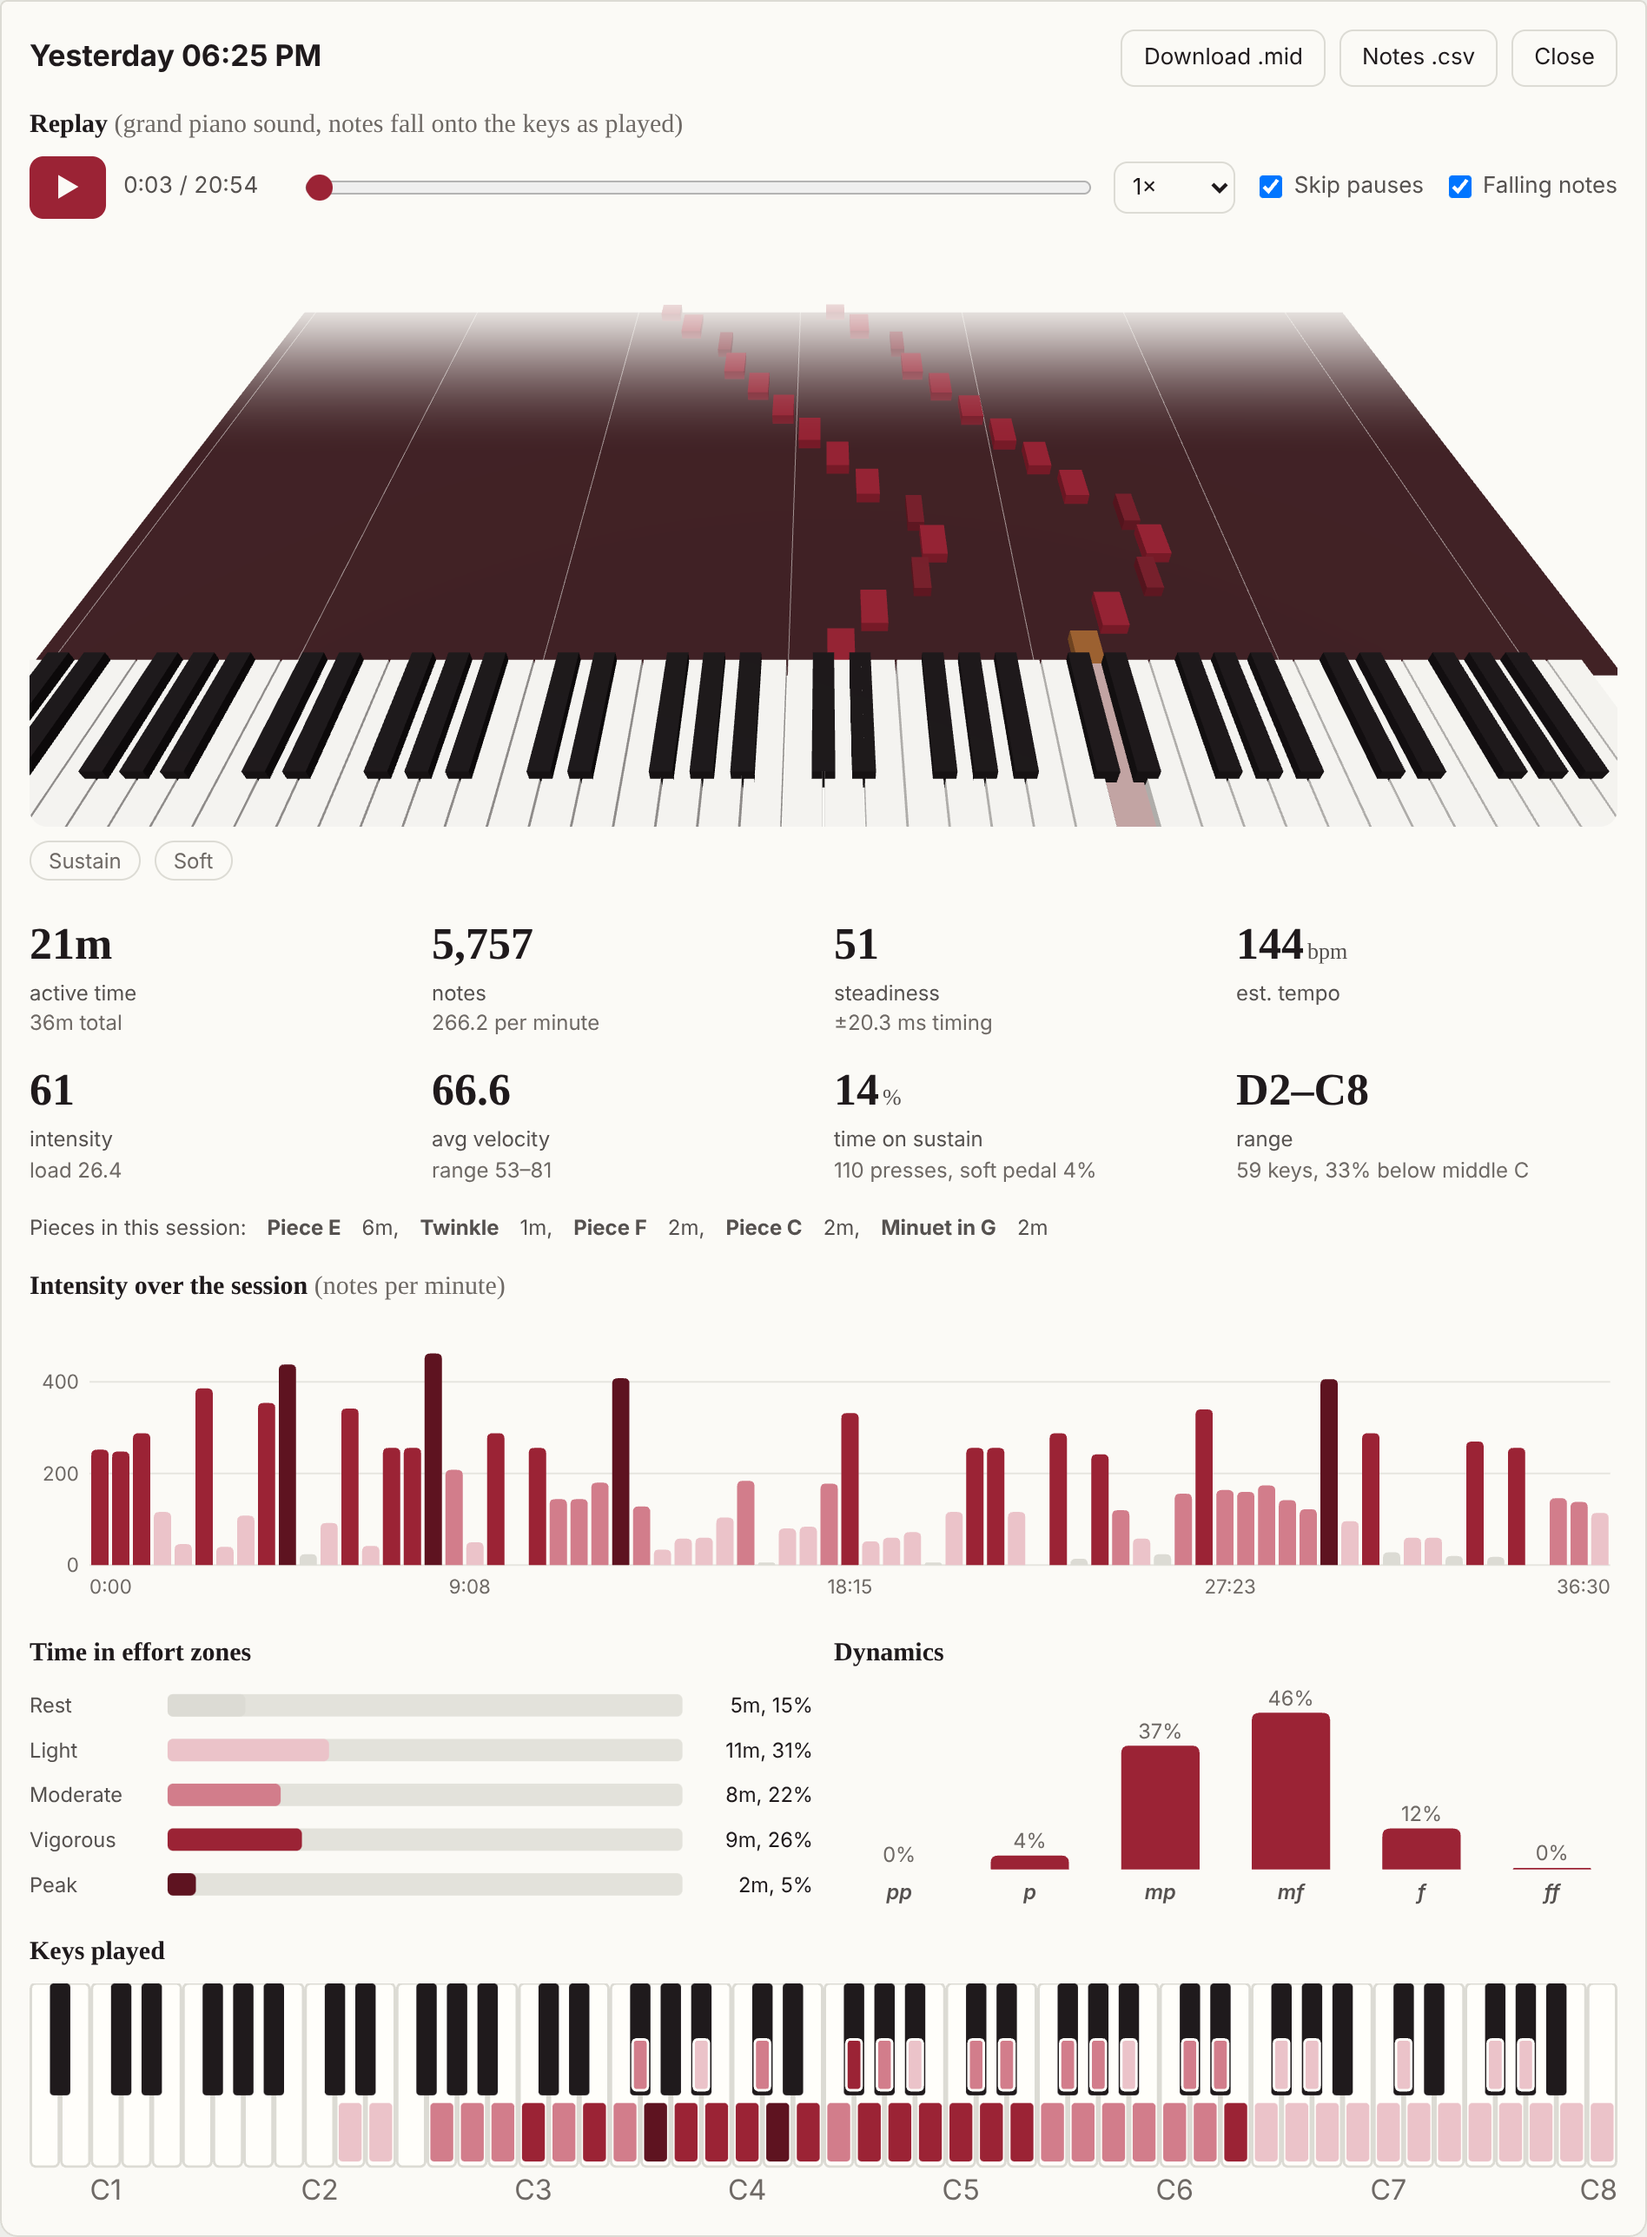
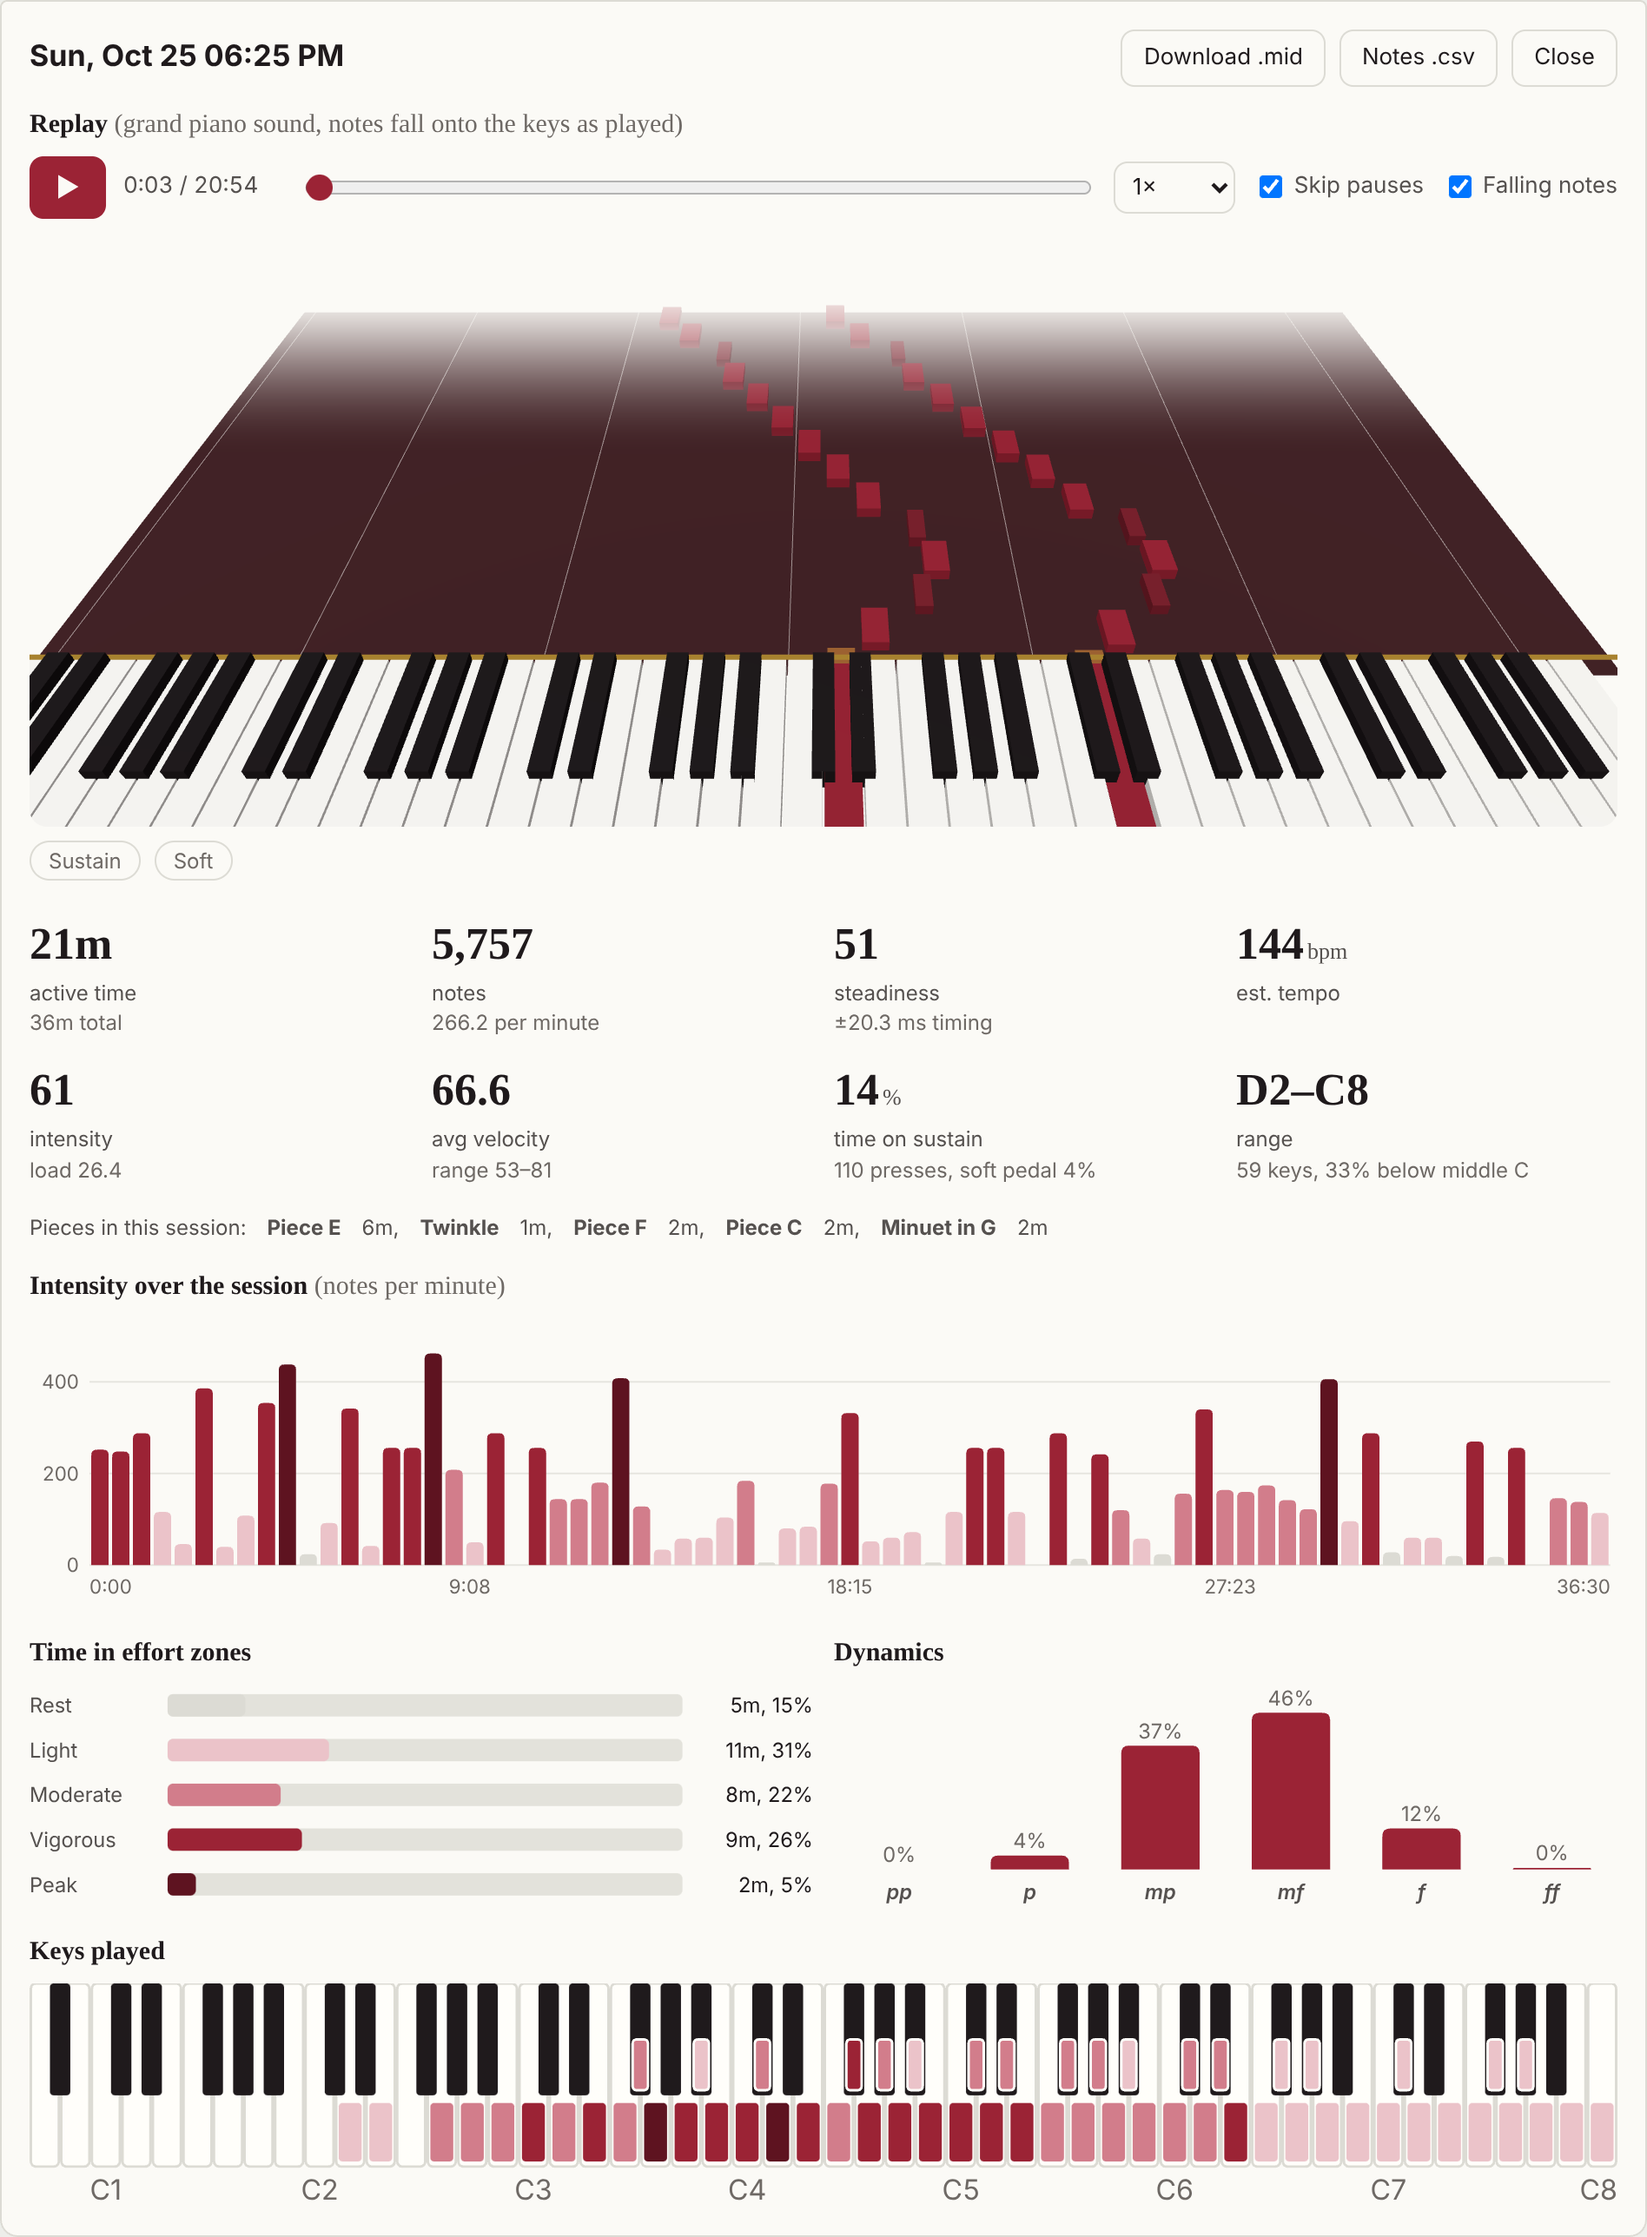
Replay: falling notes easier to read
Pressed keys take the key map's felt shades (dark on ivory, light on ebony),
which stand out in both themes; a brass line along the back of the keys marks
where notes land; the view is 230 px tall on phones instead of 300, so less of
it is empty; nothing is computed or drawn while the replay is scrolled off
screen.

Claude-Session: https://claude.ai/code/session_01XCCUDBuyTevP1K1S3AtivC

diff --git a/pianotrack/static/falling3d.js b/pianotrack/static/falling3d.js
@@ -37,6 +37,12 @@ export function mount(box) {
     lines.geometry = new THREE.BufferGeometry().setFromPoints(pts);
   }
 
+  // A brass line where the notes land, so the moment a note sounds is easy to see.
+  const hitLineMat = new THREE.MeshBasicMaterial();
+  const hitLine = new THREE.Mesh(new THREE.BoxGeometry(1, 0.06, 0.14), hitLineMat);
+  hitLine.position.set(0, KH + 0.03, back - 0.07);
+  scene.add(hitLine);
+
   // Notes are instances of one box, drawn only while inside the lane.
   const unit = new THREE.BoxGeometry(1, 1, 1);
   const noteMat = new THREE.MeshStandardMaterial({ roughness: 0.5 });
@@ -51,6 +57,9 @@ export function mount(box) {
 
   const camera = new THREE.PerspectiveCamera(34, 2, 0.1, 400);
   const colour = {};
+  let onScreen = true;
+  const hits = { white: new THREE.MeshStandardMaterial({ roughness: 0.4 }),
+                 black: new THREE.MeshStandardMaterial({ roughness: 0.4 }) };
   let notes = [], first = () => 0, maxHold = 0, t = 0, centre = 0, width = 30, down = new Set();
   const m4 = new THREE.Matrix4(), q = new THREE.Quaternion(), v = new THREE.Vector3(), sc = new THREE.Vector3();
   const tint = new THREE.Color();
@@ -58,6 +67,10 @@ export function mount(box) {
   function paint() {
     kb.paint();
     colour.white = css("--accent"); colour.black = css("--accent").lerp(css("--text"), 0.4); colour.hit = css("--good");
+    // Pressed keys take the key map's felt shades, which stay the same in both themes:
+    // the dark one on ivory, the light one on ebony, both well apart from their neighbours.
+    hits.white.color = css("--kseq-3"); hits.black.color = css("--kseq-2");
+    hitLineMat.color = css("--good");
     laneMat.color = css("--key-black").lerp(css("--accent"), 0.12);
     lineMat.color = css("--key-white");
     // The far end of the lane fades into the card, so notes arrive out of the mist.
@@ -74,6 +87,7 @@ export function mount(box) {
     camera.position.set(centre, dist * 0.8, WL / 2 + dist * 0.42);
     camera.lookAt(centre, 0, back - AHEAD * Z * 0.3);
     lane.scale.x = width + 2; lane.position.x = centre;
+    hitLine.scale.x = width + 2; hitLine.position.x = centre;
     if (scene.fog) {
       const toKeys = camera.position.distanceTo(v.set(centre, 0, back));
       scene.fog.near = toKeys + AHEAD * Z * 0.35;
@@ -83,6 +97,7 @@ export function mount(box) {
   }
 
   function render() {
+    if (!onScreen) return;  // brought up to date when it scrolls back into view
     // Notes that may still sound at t start no earlier than t - maxHold.
     let i = first(t - maxHold), n = 0;
     const end = first(t + AHEAD), now = new Set();
@@ -116,14 +131,10 @@ export function mount(box) {
     down = now;
     renderer.render(scene, camera);
   }
-  const hits = {};
-  function hitMat(p) {
-    const key = isBlack(p) ? "black" : "white";
-    if (!hits[key]) hits[key] = new THREE.MeshStandardMaterial({ roughness: 0.4 });
-    hits[key].color.copy(kb.mat[key].color).lerp(colour.white, 0.6);
-    return hits[key];
-  }
+  const hitMat = (p) => hits[isBlack(p) ? "black" : "white"];
 
+  // Scrolled out of view, the replay keeps playing but nothing is drawn.
+  new IntersectionObserver(([e]) => { onScreen = e.isIntersecting; if (onScreen) render(); }).observe(box);
   new ResizeObserver(frame).observe(box);
   onTheme(paint);
   paint();

diff --git a/pianotrack/static/index.html b/pianotrack/static/index.html
@@ -182,7 +182,7 @@ tr.sel td { background: var(--accent-soft) !important; }
 .rp-kbd[hidden], .rp-3d[hidden], .rp-fall[hidden] { display: none; }
 .rp-3d { height: 340px; border-radius: 10px; overflow: hidden; }
 .rp-3d canvas { width: 100%; height: 100%; display: block; }
-@media (max-width: 700px) { .rp-3d { height: 300px; } }
+@media (max-width: 700px) { .rp-3d { height: 230px; } }
 .rp-k.rp-w { fill: var(--key-white); stroke: var(--border); }
 .rp-k.rp-b { fill: var(--key-black); }
 .rp-k.on { fill: var(--accent); }

diff --git a/README.md b/README.md
@@ -50,8 +50,9 @@ the same way a band's calorie count is. They are not a teacher's grade.
 **Session replay:** open any session and press play to hear it back with a grand piano
 sound. With **Falling notes** (on by default where the browser has WebGL) the notes travel
 down a lane onto a 3D keyboard, the next four seconds in view, each note as long as you
-held it and taller when played louder; while it sounds the note warms towards brass and
-its key goes down, and the view frames the range of keys the session used. Untick it for the flat
+held it and taller when played louder. A brass line along the back of the keys marks where notes land;
+while one sounds it warms towards brass and its key goes down in felt red (light felt on a
+black key), and the view frames the range of keys the session used. Untick it for the flat
 88-key keyboard that lights up the keys as you pressed them; the choice is remembered on
 that device. While paused it redraws only when you seek, resize or switch theme. Sustain and soft pedal
 are honoured, playback speed goes from 0.5× to 2×, and "skip pauses" squeezes long
